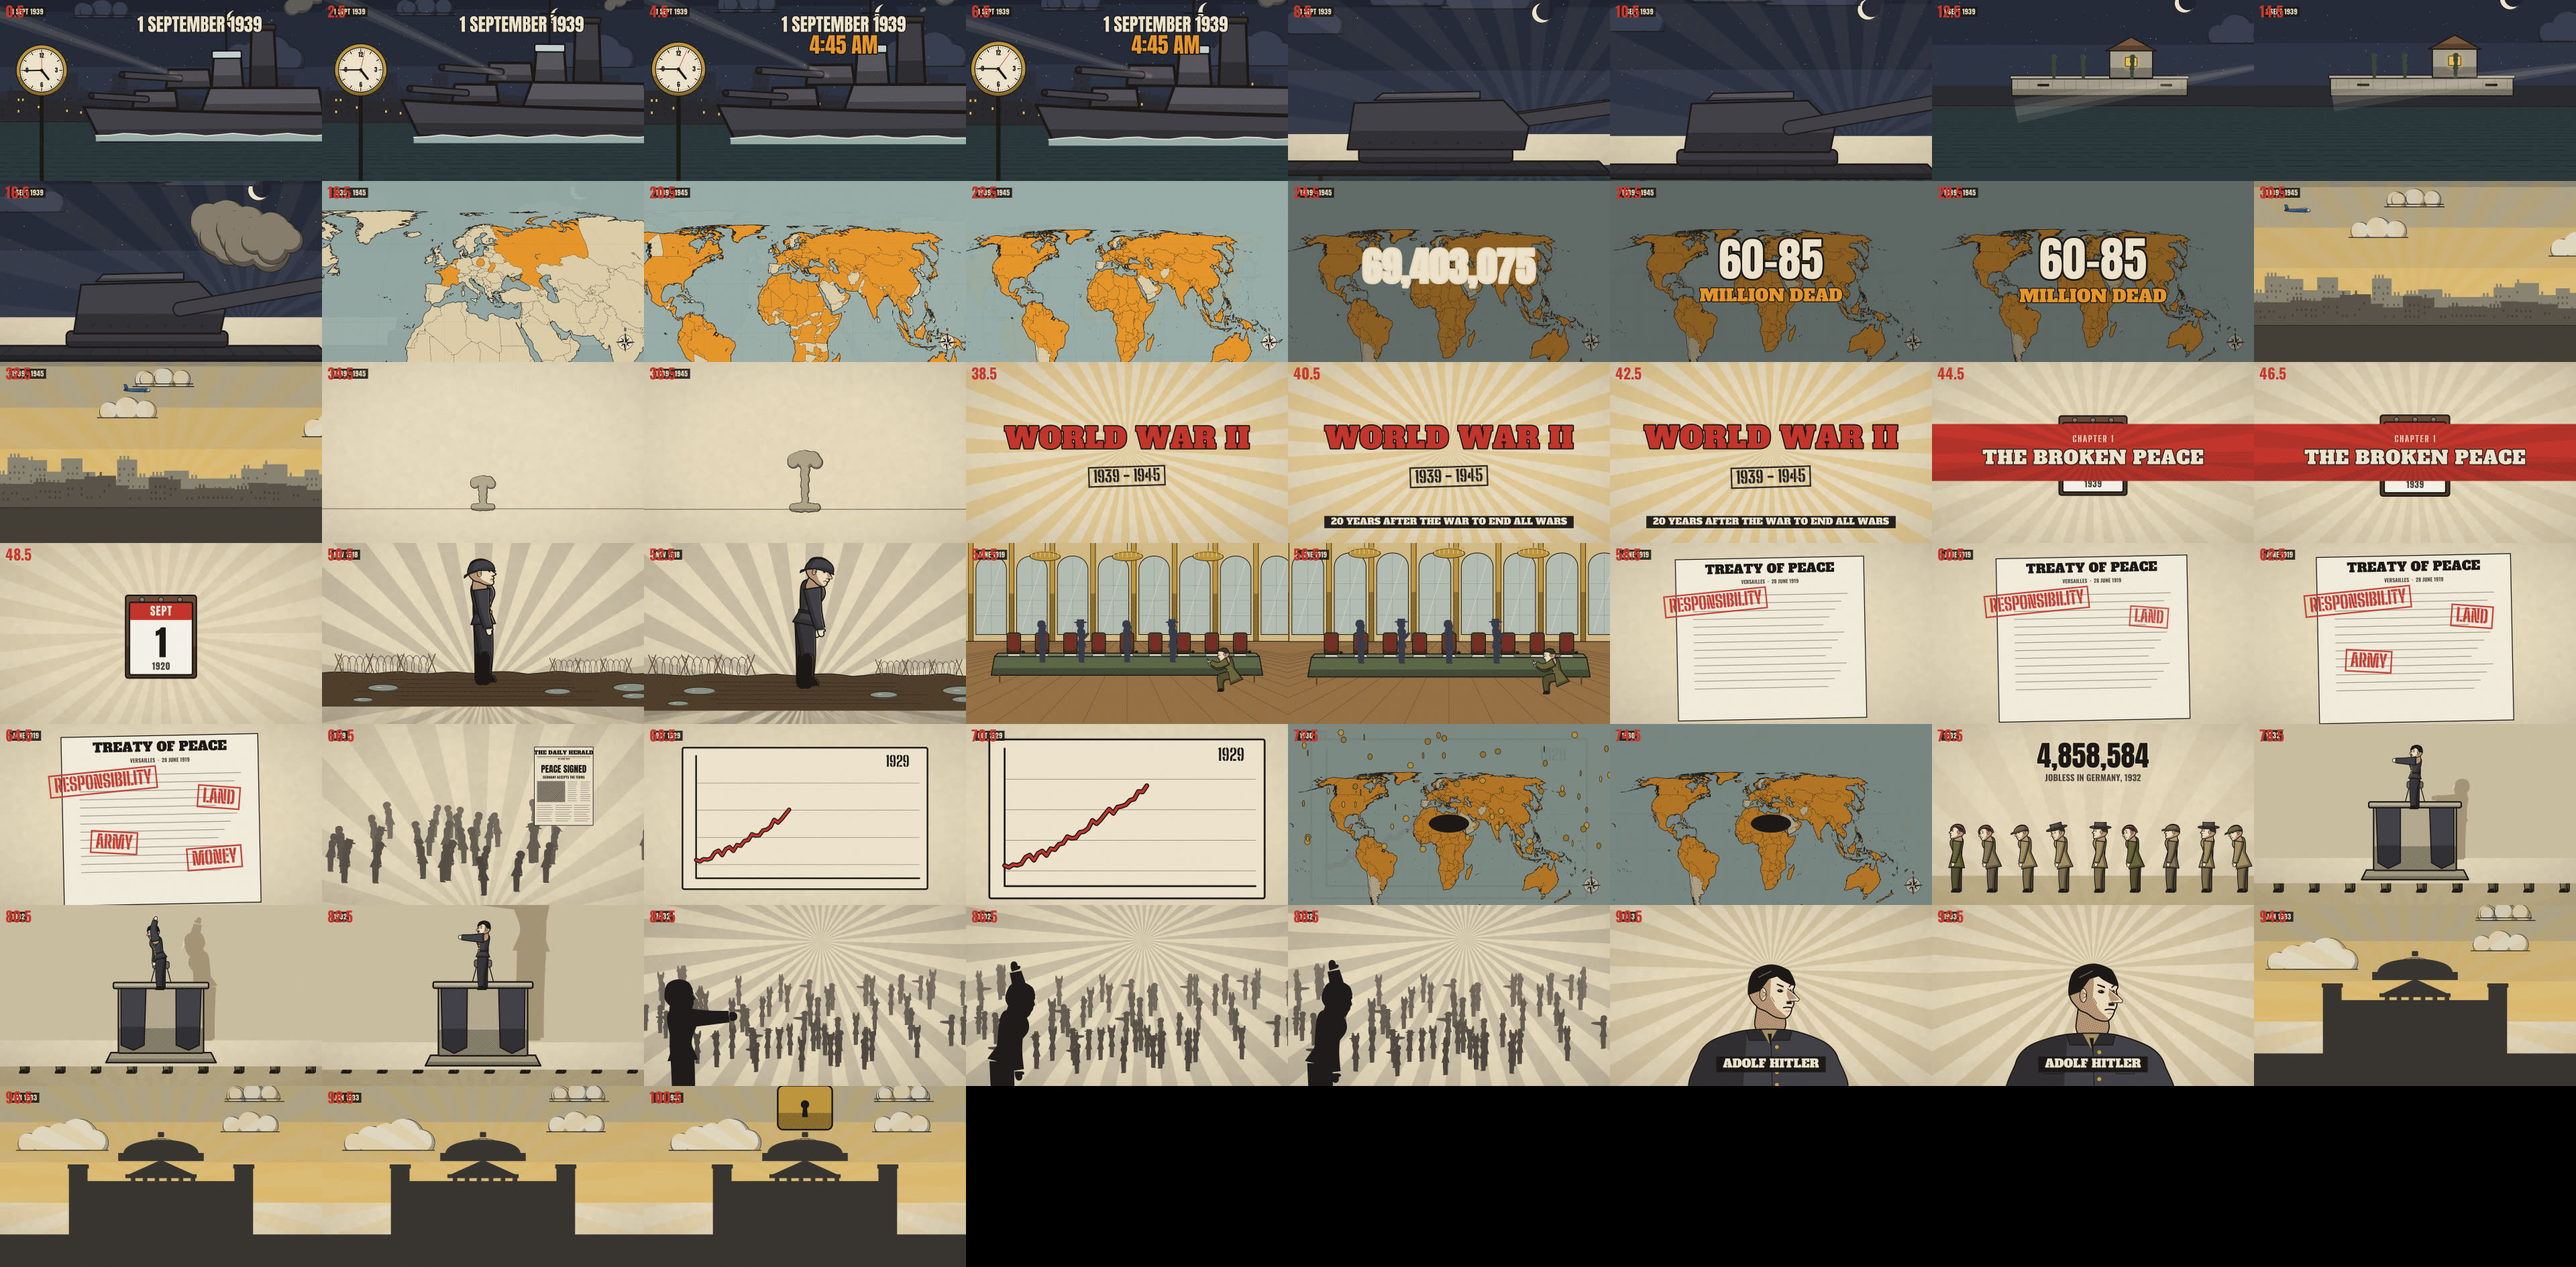
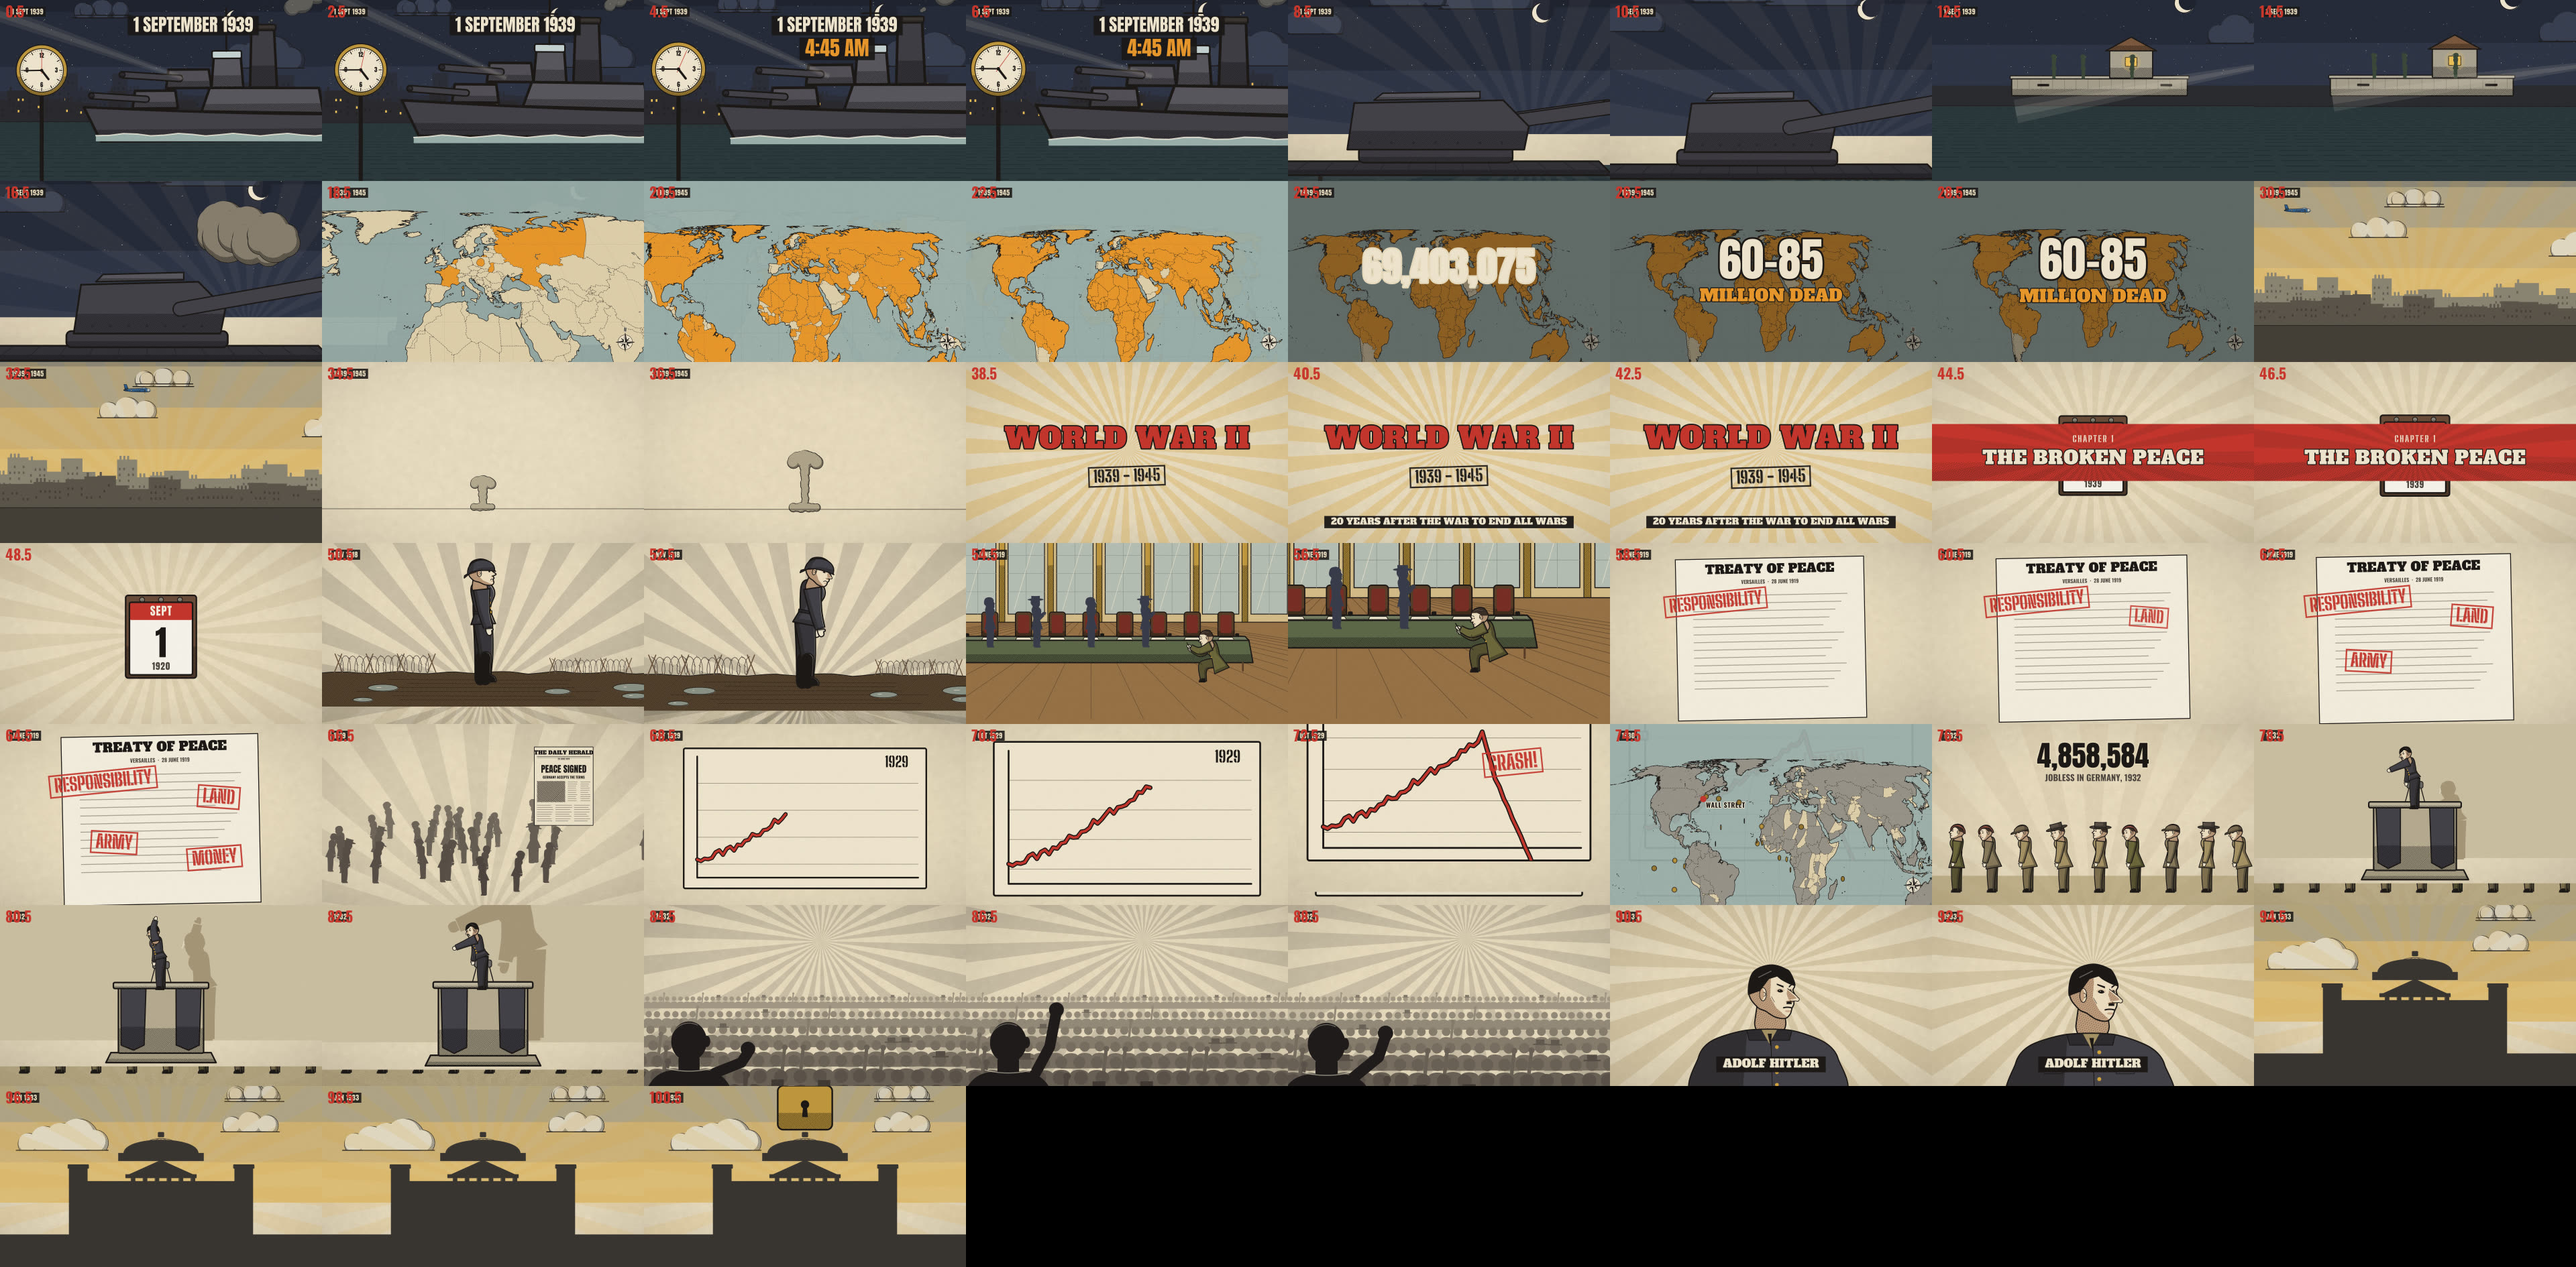
WW2 ep01 P1 fixes (coordinator): the rally as a packed poster crowd (heads and shoulders, raised fists and hats only, no straight-arm gestures anywhere) with a proper over-the-shoulder speaker; the 1929 chart plunges hard on 'crashes' (held 1.9 s, sting); the Depression greys the map out from a Wall
Claude-Session: https://claude.ai/code/session_01PF511YTmbSi3KeLNnX6GyZ

diff --git a/channels/ww2/ep01/p1.py b/channels/ww2/ep01/p1.py
@@ -182,9 +182,9 @@ def s01_harbour(cr, t, t0, t1):
     cr.restore()
     # the hook: big type over the frame
     s1 = S(1, 0) if len(T._lines["1"]["sentences"]) > 1 else L(1)
-    _hook(cr, t, t0 + 0.0, "1 SEPTEMBER 1939", W * 0.62, 190, 108)
+    _hook(cr, t, t0 + 0.0, "1 SEPTEMBER 1939", W * 0.6, 190, 104)
     _hook(cr, t, S(1, 1).start - 0.1 if len(T._lines["1"]["sentences"]) > 1 else s1.start + 2.5, "4:45 AM",
-          W * 0.62, 320, 128, color="fire")
+          W * 0.6, 335, 120, color="fire")
 
 
 def _hook(cr, t, start, s, x, y, size, color="cream"):
@@ -194,7 +194,13 @@ def _hook(cr, t, start, s, x, y, size, color="cream"):
     cr.save()
     cr.translate(x, y)
     cr.scale(u, u)
-    text(cr, s, 0, 0, size, font=TITLE, color=color, bold=False, outline="ink", outline_w=size * 0.1)
+    cr.select_font_face(TITLE, cairo.FONT_SLANT_NORMAL, cairo.FONT_WEIGHT_NORMAL)
+    cr.set_font_size(size)
+    w = cr.text_extents(s).x_advance
+    cr.rectangle(-w / 2 - 34, -size * 0.92, w + 68, size * 1.12)       # the ink plate (clear of the mast)
+    cr.set_source_rgba(*col("ink", 0.92))
+    cr.fill()
+    text(cr, s, 0, 0, size, font=TITLE, color=color, bold=False)
     cr.restore()
 
 
@@ -358,7 +364,8 @@ def s09_soldier(cr, t, t0, t1):
 
 def s10_signing(cr, t, t0, t1):
     """The Hall of Mirrors as a long signing table: the winners in silhouette, the German delegate alone, signing."""
-    _frame(cr, t, t0, t1, 1.0, 1.06, W / 2, H * 0.55)
+    u = smooth(seg(t, t0, t1))
+    _frame(cr, t, t0, t1, 1.12, 1.55, lerp(W * 0.55, W * 0.76, u), lerp(H * 0.62, H * 0.74, u))
     ROOM.draw(cr, t)
     TABLE.draw(cr, t, x=W * 0.5, y=880, scale=1.0)
     for i, (x, who) in enumerate(((W * 0.24, "churchill"), (W * 0.36, None), (W * 0.5, None), (W * 0.64, None))):
@@ -416,33 +423,53 @@ def s13_chart(cr, t, t0, t1, crash_t):
     follow = smooth(seg(t, crash_t, t1))
     _frame(cr, t, t0, t1, 1.05, 1.25, W / 2, lerp(H * 0.48, H * 0.66, follow))
     paper(cr)
-    prog = lerp(0.35, 0.6, seg(t, t0, crash_t)) if t < crash_t else lerp(0.6, 1.0, ease_in(seg(t, crash_t,
-                                                                                               crash_t + 1.0)))
+    prog = lerp(0.3, 0.62, seg(t, t0, crash_t)) if t < crash_t else lerp(0.62, 1.0, ease_out(seg(t, crash_t,
+                                                                                                 crash_t + 0.45)))
     CHART.draw(cr, t, x=W / 2, y=H / 2, scale=1.5, progress=prog, crash=0.62, label="1929")
     cr.restore()
     if t > crash_t:
         _stamp(cr, t, crash_t + 0.25, "CRASH!", W * 0.7, H * 0.25, size=120, tilt=-0.1)
 
 
+NYC = (-74.0, 40.7)
+
+
+def _depression_map(t0):
+    if "d" in _MAPS and _MAPS["d"][1] == round(t0, 3):
+        return _MAPS["d"][0]
+    from channels.ww2.kit.maps import Map
+    m = Map("world", era="1939")
+    m.camera_key(t0, (-40.0, 38.0), 2.2)
+    m.camera_key(t0 + 3.2, (10.0, 25.0), 1.12)
+    for r in sorted(m._side):                                     # grey spreads out from the US
+        m.side(r, t0 + 0.35, "#9b968b", origin=NYC, dur=2.6, occupied=False)
+    m.city("WALL STREET", t0 + 0.1, lonlat=NYC, size=40)
+    _MAPS["d"] = (m, round(t0, 3))
+    return m
+
+
 def s14_drain(cr, t, t0, t1):
-    """Coins drain off the world map toward a hole in its middle (the Depression spreads)."""
-    m = _world_map()
+    """The Depression spreads: the world greys out from a Wall Street pin while coins spill out of it and drain away
+    off the map's edges."""
+    m = _depression_map(t0)
     m.draw(cr, t)
-    cr.save()
-    cr.rectangle(0, 0, W, H)
-    cr.set_source_rgba(*col("ink", 0.25))
+    nx, ny = m.screen(m.xy(NYC))
+    r = random.Random(4)
+    for i in range(46):
+        st = t0 + 0.2 + r.uniform(0, 2.4)
+        age = t - st
+        if age < 0:
+            continue
+        ang = r.uniform(-1.1, 1.3) if r.random() < 0.7 else r.uniform(1.6, 2.6)   # mostly east, over the Atlantic
+        spd = r.uniform(420, 760)
+        x = nx + math.cos(ang) * spd * age
+        y = ny + math.sin(ang) * spd * age * 0.6 + 380 * age * age            # arcs, then falls off the edge
+        if y > H + 40 or x > W + 40 or x < -40:
+            continue
+        things.coin(cr, x, y, 15, t * 9 + i)
+    cr.arc(nx, ny, 14 + 6 * math.sin(t * 6), 0, 2 * math.pi)
+    cr.set_source_rgba(*col("alert"))
     cr.fill()
-    cr.restore()
-    cx, cy = W / 2, H * 0.55
-    r = 120 * smooth(seg(t, t0, t0 + 0.8))
-    cr.save()
-    cr.translate(cx, cy)
-    cr.scale(1.0, 0.45)
-    cr.arc(0, 0, r, 0, 2 * math.pi)
-    cr.restore()
-    cr.set_source_rgba(*col("ink"))
-    cr.fill()
-    things.coin_stream(cr, t, 0, 0, W, H * 0.7, cx, cy, n=60, start=t0 + 0.3, dur=2.4, r=18.0, seed=4)
 
 
 def s15_queue(cr, t, t0, t1):
@@ -479,24 +506,114 @@ def s16_podium(cr, t, t0, t1):
                       color="#a9997a")                            # his shadow on the wall, growing
     cr.save()
     cr.translate(0, -H * 0.04 * grow)
-    sh.draw(cr, t, [(0.0, "point"), (t0 + 1.6, "slam"), (t0 + 3.0, "point")])
+    sh.draw(cr, t, [(0.0, "slam_down"), (t0 + 1.6, "slam"), (t0 + 3.0, "slam_down")])
     cr.restore()
     PODIUM.draw(cr, t, x=W * 0.5, y=H * 0.98, scale=1.45)
     sp = stick.Figure(leader="hitler", x=W * 0.5, y=H * 0.98 + PODIUM.top_y * 1.45 + 6, scale=0.95, facing=-1,
                       seed=81)
-    sp.draw(cr, t, [(0.0, "point"), (t0 + 1.6, "slam"), (t0 + 3.0, "point")])
+    sp.draw(cr, t, [(0.0, "slam_down"), (t0 + 1.6, "slam"), (t0 + 3.0, "slam_down")])
+    cr.restore()
+
+
+def _poster_crowd(cr, t, rows=7, y0=560.0, y1=1120.0, seed=31):
+    """A dense poster crowd filling the lower frame: rows of heads and shoulders packed shoulder to shoulder, looking
+    up at the speaker, back rows smaller and paler; a few raised fists and hats (no straight-arm gestures)."""
+    for row in range(rows):
+        k = row / (rows - 1)                                      # 0 = back, 1 = front
+        y = lerp(y0, y1, k)
+        sz = lerp(22, 74, k)
+        tone = stick._mix(col("ink_soft"), col("paper"), 0.55 * (1 - k))
+        r = random.Random(seed * 100 + row)
+        x = -sz * r.uniform(0.2, 1.2)
+        while x < W + sz:
+            bob = 3 * k * math.sin(t * 2.2 + x * 0.05)
+            cr.save()
+            cr.translate(x, y + bob)
+            cr.move_to(-sz * 1.25, sz * 2.6)                      # shoulders
+            cr.curve_to(-sz * 1.2, sz * 0.9, -sz * 0.7, sz * 0.75, 0, sz * 0.72)
+            cr.curve_to(sz * 0.7, sz * 0.75, sz * 1.2, sz * 0.9, sz * 1.25, sz * 2.6)
+            cr.close_path()
+            cr.arc(0, -sz * 0.05, sz * 0.62, 0, 2 * math.pi)        # the head, tipped up
+            cr.set_source_rgba(*tone)
+            cr.fill()
+            u = r.random()
+            if u < 0.12:                                          # a raised fist (arm up, bent)
+                cr.move_to(sz * 0.7, sz * 1.0)
+                cr.line_to(sz * 0.95, -sz * 1.3)
+                cr.set_line_width(sz * 0.36)
+                cr.set_line_cap(cairo.LINE_CAP_ROUND)
+                cr.set_source_rgba(*tone)
+                cr.stroke()
+                cr.arc(sz * 0.97, -sz * 1.45, sz * 0.3, 0, 2 * math.pi)
+                cr.fill()
+            elif u < 0.22:                                        # a hat
+                cr.rectangle(-sz * 0.85, -sz * 0.55, sz * 1.7, sz * 0.16)
+                cr.rectangle(-sz * 0.5, -sz * 1.05, sz * 1.0, sz * 0.55)
+                cr.set_source_rgba(*stick._shade(tone, 0.25))
+                cr.fill()
+            cr.restore()
+            x += sz * r.uniform(1.55, 1.95)
+
+
+def _speaker_back(cr, t, x, y, s, raise_t):
+    """Over the shoulder: the speaker's back of head and ear, collar, broad shoulders, one fist raised to the side."""
+    ink, tone = col("#1f1c1b"), col("#1f1c1b")
+    up = smooth(seg(t, raise_t, raise_t + 0.35)) - 0.6 * smooth(seg(t, raise_t + 1.6, raise_t + 2.0))
+    cr.save()
+    cr.translate(x, y)
+    cr.scale(s, s)
+    ang = lerp(-0.25, -1.25, up)                                  # the raised arm swings up to the side (bent)
+    ex, ey = 230 + 120 * math.cos(ang), -260 + 160 * math.sin(ang)
+    cr.move_to(170, -230)
+    cr.line_to(ex, ey)
+    cr.line_to(ex + 40, ey - 150 * (0.4 + up))
+    cr.set_line_width(70)
+    cr.set_line_join(cairo.LINE_JOIN_ROUND)
+    cr.set_line_cap(cairo.LINE_CAP_ROUND)
+    cr.set_source_rgba(*tone)
+    cr.stroke()
+    cr.arc(ex + 44, ey - 150 * (0.4 + up) - 30, 48, 0, 2 * math.pi)      # the fist
+    cr.fill()
+    cr.move_to(-330, 260)                                         # broad shoulders and back
+    cr.curve_to(-330, -120, -260, -230, -110, -250)
+    cr.line_to(110, -250)
+    cr.curve_to(260, -230, 330, -120, 330, 260)
+    cr.close_path()
+    cr.fill()
+    cr.rectangle(-70, -330, 140, 110)                              # the neck in the collar
+    cr.fill()
+    cr.save()                                                     # the back of the head: hair mass and an ear
+    cr.translate(0, -440)
+    cr.scale(1.0, 1.12)
+    cr.arc(0, 0, 118, 0, 2 * math.pi)
+    cr.restore()
+    cr.fill()
+    cr.save()
+    cr.translate(118, -440)
+    cr.scale(0.45, 0.75)
+    cr.arc(0, 0, 50, 0, 2 * math.pi)
+    cr.restore()
+    cr.fill()
+    cr.move_to(-150, -262)                                        # the collar's rim light
+    cr.curve_to(-60, -236, 60, -236, 150, -262)
+    cr.set_source_rgba(*col("cream", 0.55))
+    cr.set_line_width(6)
+    cr.stroke()
+    cr.arc(0, -440, 121, math.pi * 1.15, math.pi * 1.65)         # a rim of light on the hair
+    cr.set_source_rgba(*col("cream", 0.4))
+    cr.set_line_width(5)
+    cr.stroke()
     cr.restore()
 
 
 def s17_rally(cr, t, t0, t1):
-    """The rally crowd seen over the speaker's shoulder; poster rays (ink, never red) behind."""
+    """The rally seen over the speaker's shoulder: a packed poster crowd fills the lower half, looking up; ink rays
+    (never red) behind."""
     _frame(cr, t, t0, t1, 1.0, 1.06)
     paper(cr)
     rays(cr, t, W * 0.55, H * 0.2, n=30, color="ink", alpha=0.14)
-    stick.crowd(cr, t, 70, 0, W, 520, 1000, scale=0.48, pose="cheer", seed=31, tone="ink_soft",
-                poses=["cheer", "cheer", "stand", "point"])
-    sp = stick.Figure(leader="hitler", x=W * 0.12, y=H * 1.25, scale=2.3, facing=1, seed=81, color="#1f1c1b")
-    sp.draw(cr, t, [(0.0, "point"), (t0 + 1.5, "slam")])
+    _poster_crowd(cr, t)
+    _speaker_back(cr, t, W * 0.14, H * 1.12, 0.9, t0 + 1.2)
     cr.restore()
 
 
@@ -556,9 +673,9 @@ def _shots():
                                                        ("ARMY", word_t(10, "army", 0.6)),
                                                        ("MONEY", word_t(10, "money", 0.6))])),
         (L(11).start - 0.2, L(12).start - 0.2, s12_crowd),
-        (L(12).start - 0.2, word_t(12, "Great Depression") - 0.2,
+        (L(12).start - 0.2, max(word_t(12, "Great Depression") - 0.2, word_t(12, "crashes", 0.3) + 1.9),
          lambda cr, t, a, b: s13_chart(cr, t, a, b, word_t(12, "crashes", 0.3))),
-        (word_t(12, "Great Depression") - 0.2, L(13).start - 0.2, s14_drain),
+        (max(word_t(12, "Great Depression") - 0.2, word_t(12, "crashes", 0.3) + 1.9), L(13).start - 0.2, s14_drain),
         (L(13).start - 0.2, L(14).start - 0.2, s15_queue),
         (L(14).start - 0.2, word_t(14, "and who blames"), s16_podium),
         (word_t(14, "and who blames"), L(15).start - 0.2, s17_rally),
@@ -607,7 +724,7 @@ def cues(T=T):
          (L(10).start + 1.0, "typewriter", -20, 0.3)]
     for w in ("responsibility", "land", "army", "money"):
         c.append((word_t(10, w, 0.6), "stamp", -4, 0.0))
-    c += [(word_t(12, "crashes", 0.3), "door_slam", -8, 0.0), (L(13).start, "train", -26, -0.4),
+    c += [(word_t(12, "crashes", 0.3), "door_slam", -4, 0.0), (word_t(12, "crashes", 0.3) + 0.25, "stamp", -6, 0.2), (L(13).start, "train", -26, -0.4),
           (L(14).start + 0.5, "crowd_cheer", -14, 0.0), (word_t(14, "and who blames"), "crowd_cheer", -10, 0.0),
           (L(15).start, "gun_boom", -16, 0.0),
           (word_t(16, "dictatorship", 0.2), "door_slam", -2, 0.0)]
